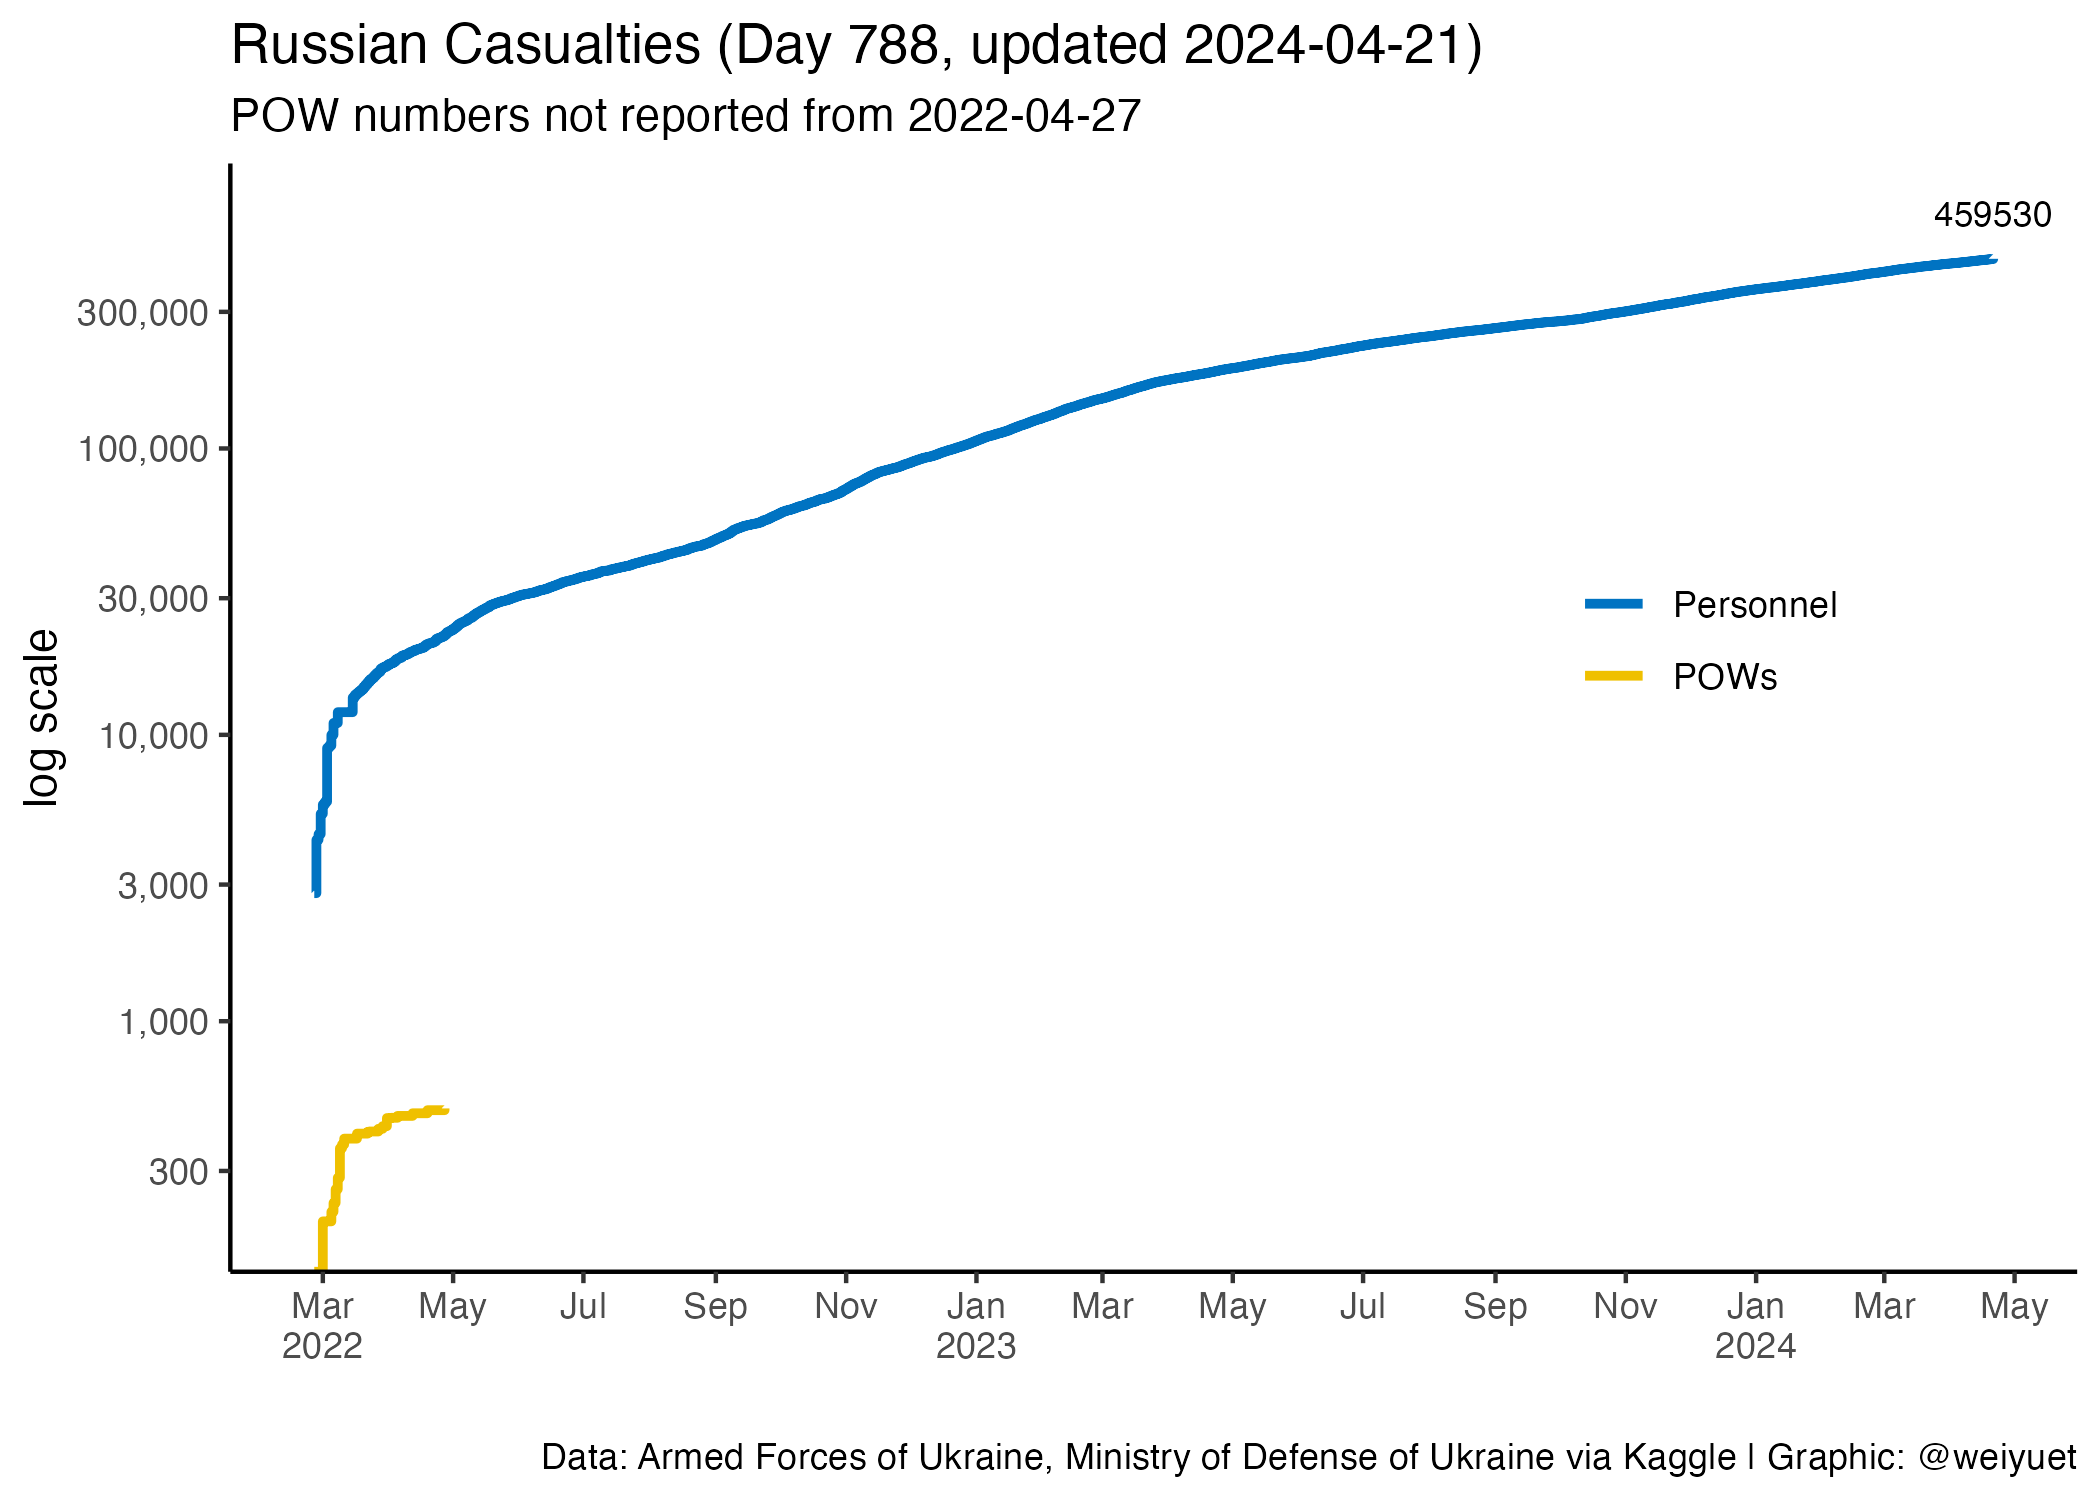
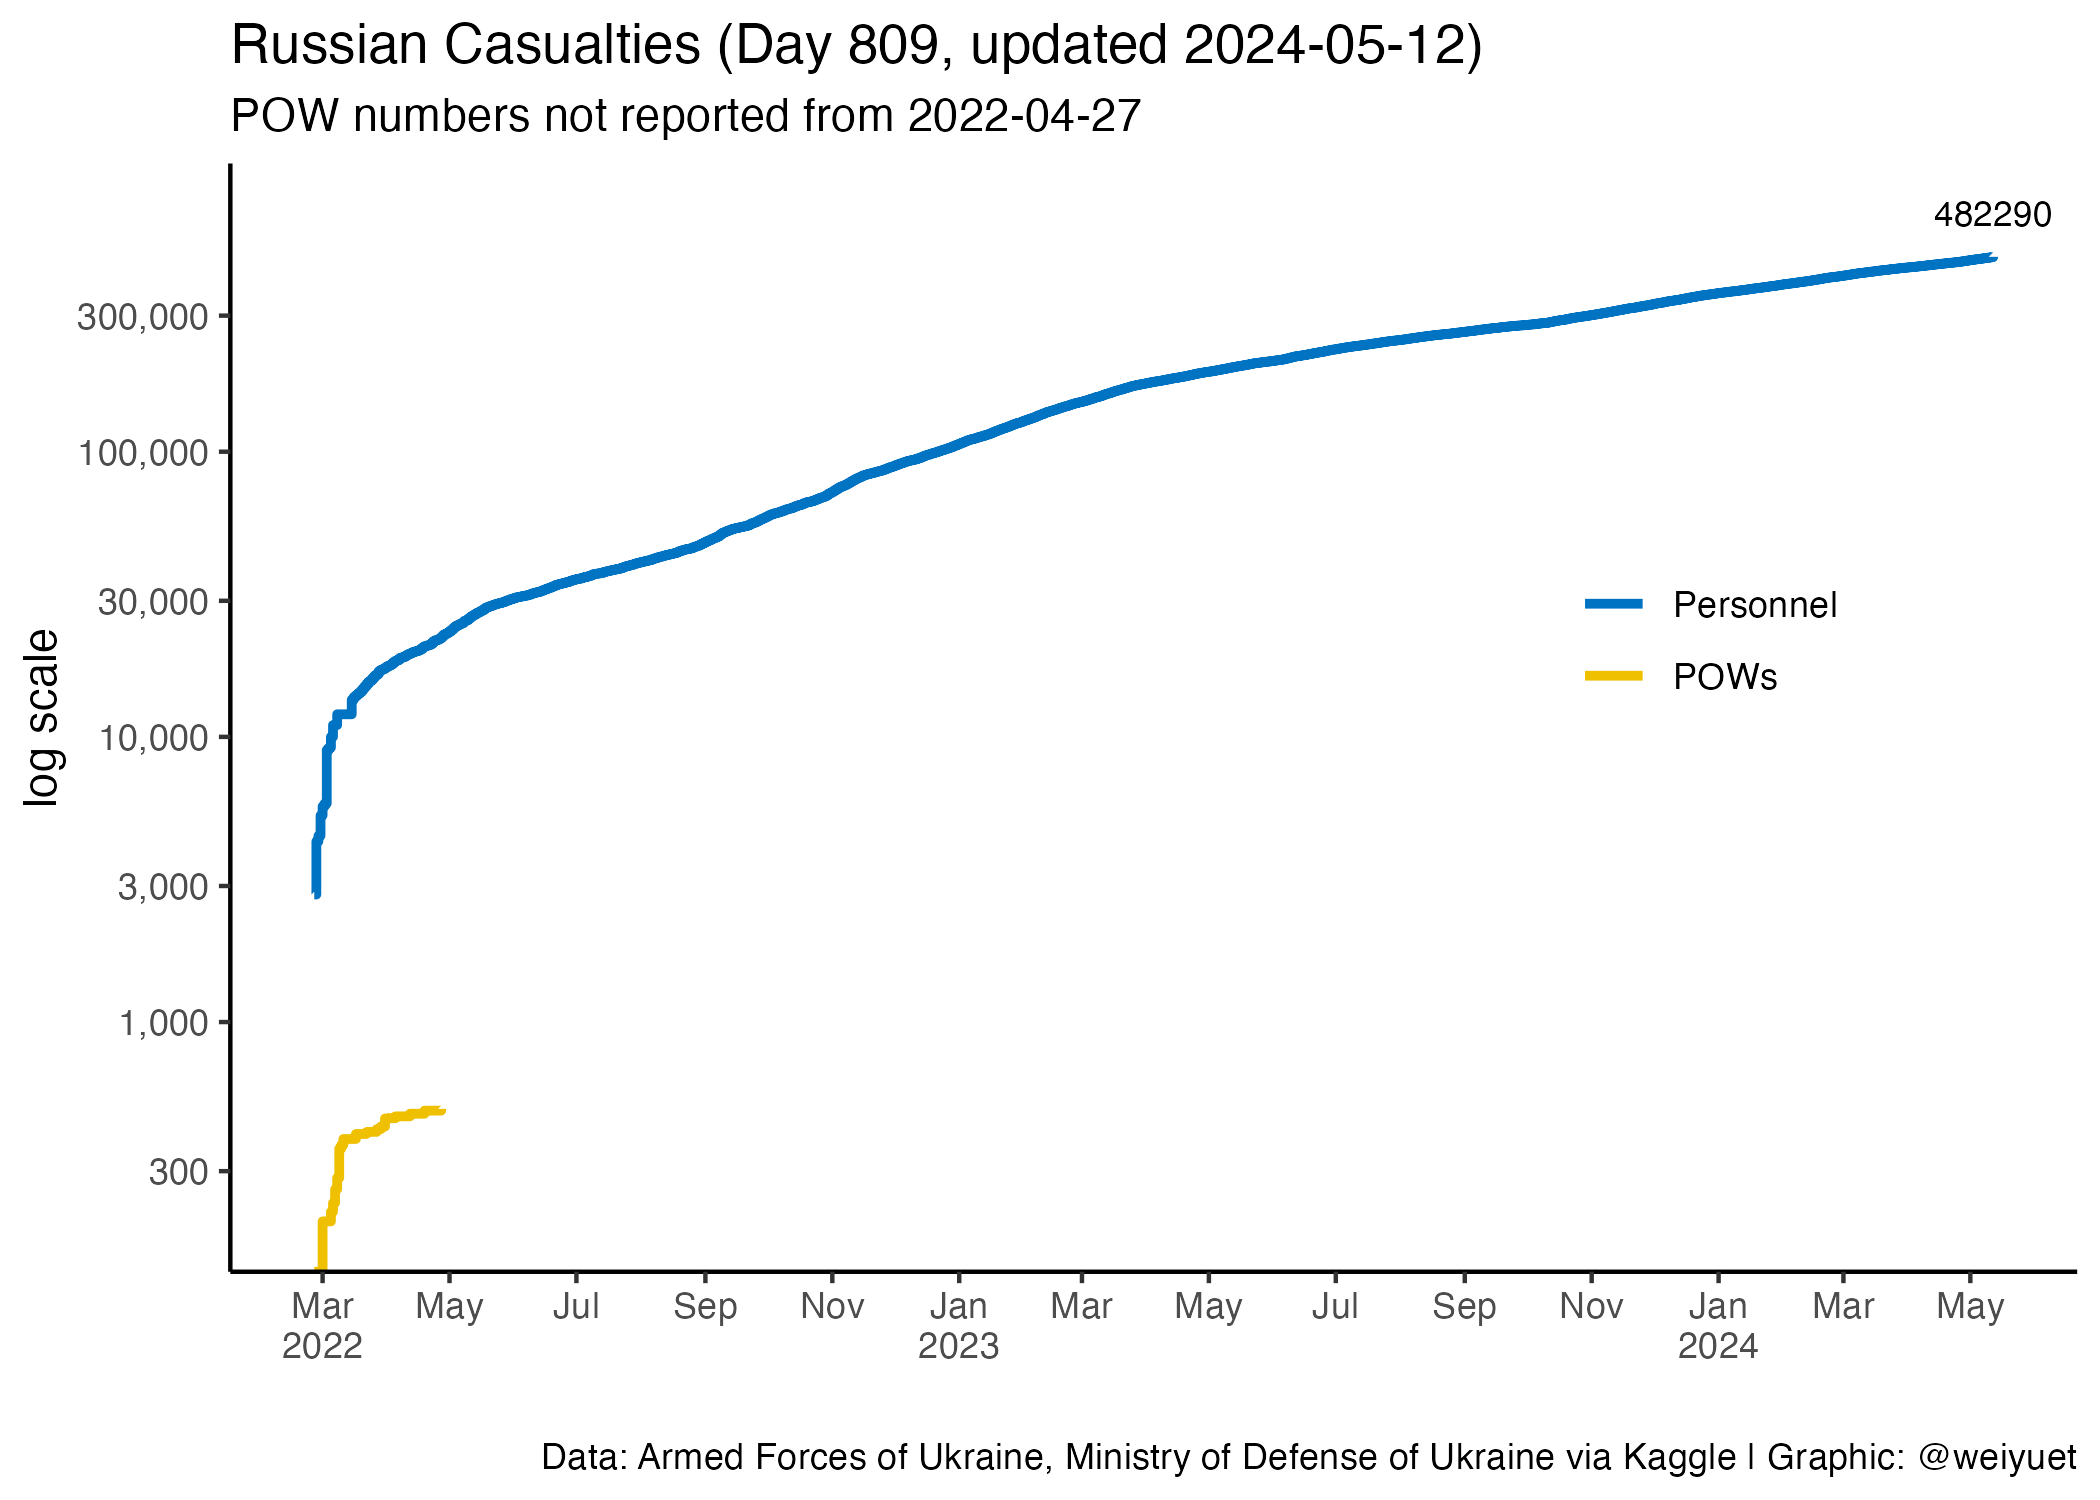
Updated 14 May

diff --git a/README.md b/README.md
@@ -6,7 +6,7 @@ Wong Wei Yuet 2022-05-26
 
   - War casualty data updated weekly from [`Petro Ivanyuk's Kaggle`](https://www.kaggle.com/datasets/piterfm/2022-ukraine-russian-war). All data is official and put together by `Petro`
 
-Updated: 2024-04-27
+Updated: 2024-05-14
 
 ## Summary of Conflict
 
